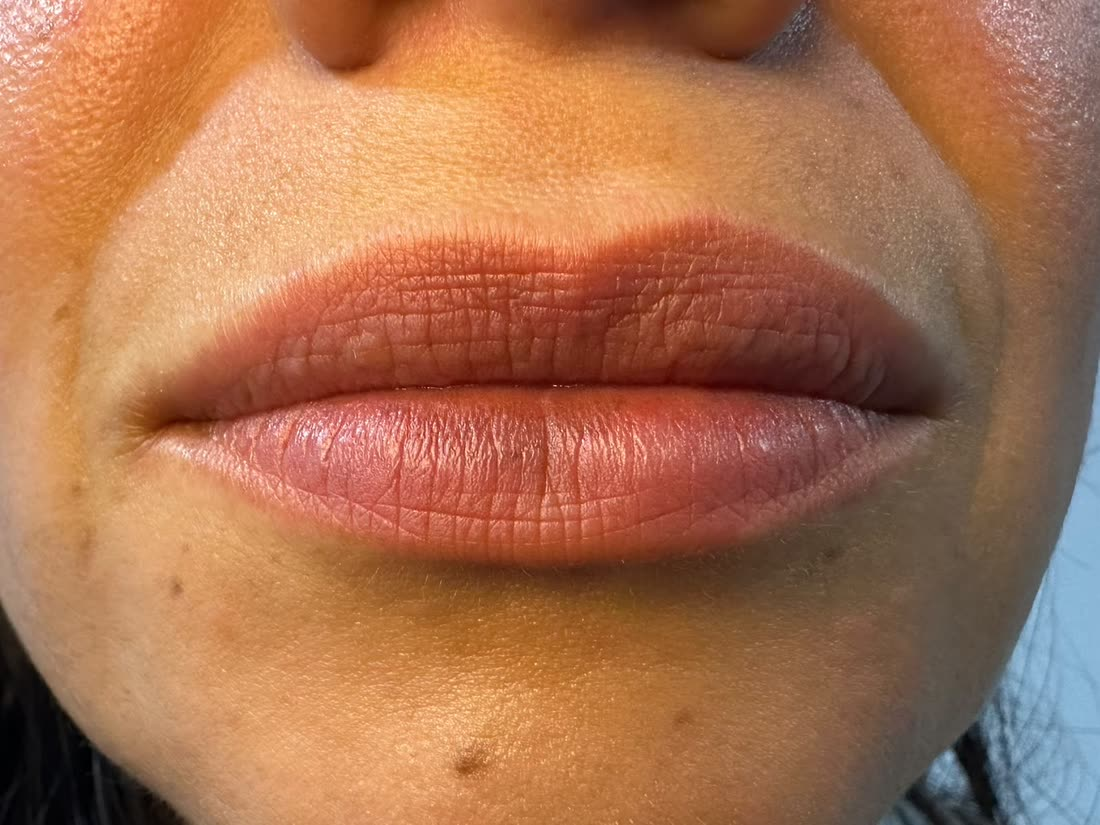
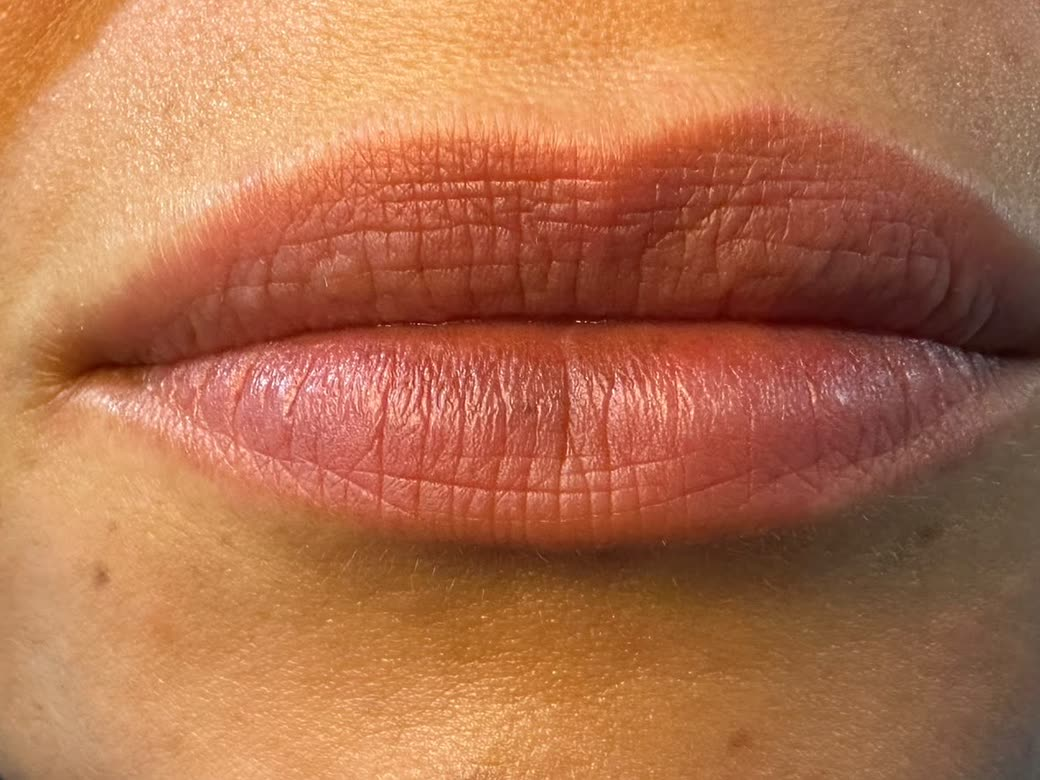
Galería: labios centrados y alineados en el comparador antes/después
- Recorte de ambas fotos centrado en la boca (línea de labios a la misma altura) para que coincidan a lado y lado del divisor
- Versionado de las imágenes (?v=2) para evitar caché anterior

Claude-Session: https://claude.ai/code/session_01Poy4ddECEXLTKdWyNDtNAK

diff --git a/index.html b/index.html
@@ -1485,8 +1485,8 @@
 
     <!-- Comparador Antes / Después (deslizable) -->
     <div class="ba reveal" id="baCompare">
-      <div class="ba-img ba-after" style="background-image:url('img/despues-labios.jpg')"><span class="ba-tag ba-tag-after">Después</span></div>
-      <div class="ba-img ba-before" id="baBefore" style="background-image:url('img/antes-labios.jpg')"><span class="ba-tag ba-tag-before">Antes</span></div>
+      <div class="ba-img ba-after" style="background-image:url('img/despues-labios.jpg?v=2')"><span class="ba-tag ba-tag-after">Después</span></div>
+      <div class="ba-img ba-before" id="baBefore" style="background-image:url('img/antes-labios.jpg?v=2')"><span class="ba-tag ba-tag-before">Antes</span></div>
       <div class="ba-line" id="baLine"><span class="ba-grip" aria-hidden="true">⇔</span></div>
       <input type="range" min="0" max="100" value="50" class="ba-range" id="baRange" aria-label="Comparar antes y después">
       <span class="ba-caption">Hidratación y realce de labios</span>
